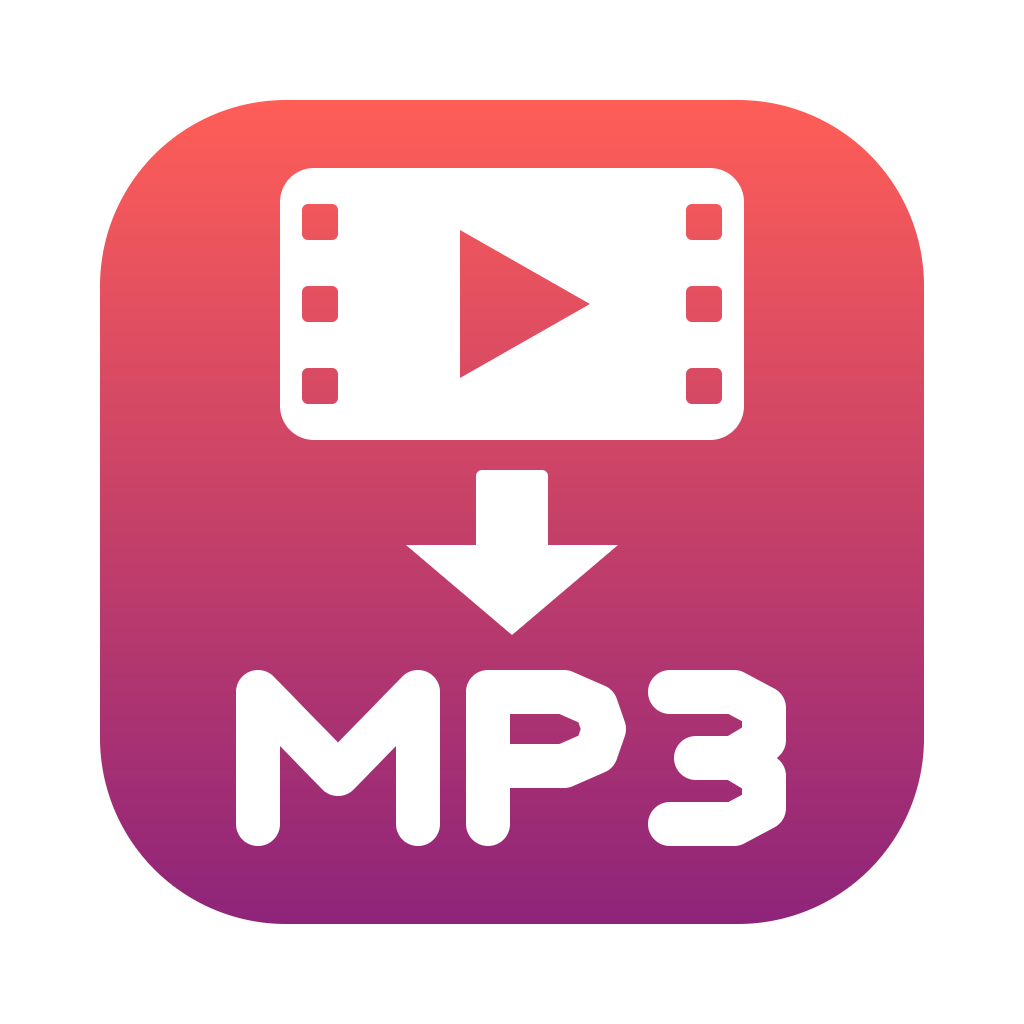
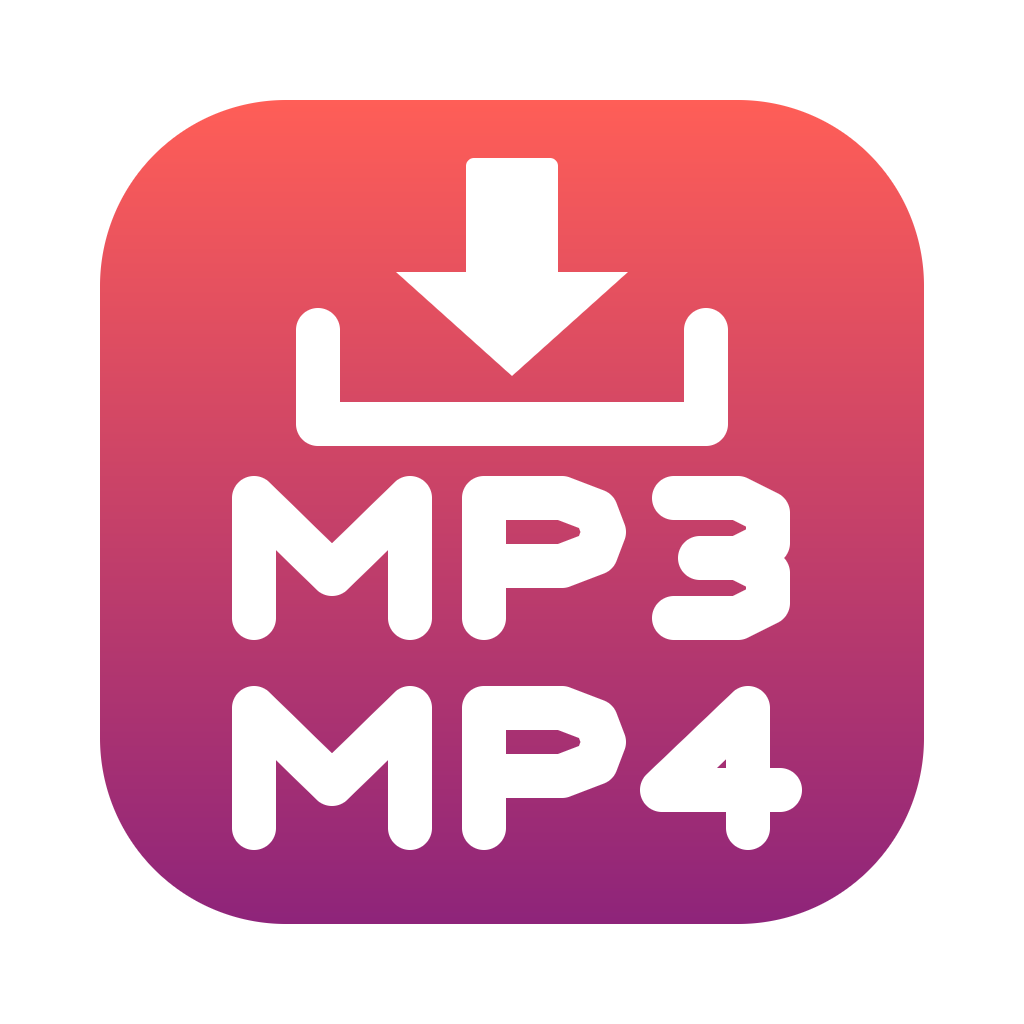
프로그램 이름을 "유투브내려받기"로 변경하고 아이콘 교체 (1.0.5)
- 창 제목, .app, 설치 파일, 바로 가기 이름 변경
- 아이콘을 내려받기 화살표와 MP3/MP4 구성으로 변경
- Windows는 기존 설치 폴더를 유지하고 이전 이름의 바로 가기를 삭제

Changed region(s): [[0.2188, 0.1562, 0.7812, 0.625], [0.2188, 0.6562, 0.7812, 0.8438]]

diff --git a/scripts/make_icon.py b/scripts/make_icon.py
@@ -39,44 +39,40 @@ def stroke(x, y, points, radius=22):
     return distance - radius
 
 
-def video(x, y):
-    """재생 삼각형과 필름 구멍이 있는 영상 화면."""
-    screen = rounded_box(x, y, 512, 304, 232, 136, 34)
-    holes = min(
-        rounded_box(x, y, cx, cy, 18, 18, 6)
-        for cx in (320, 704)
-        for cy in (222, 304, 386)
-    )
-    play = polygon(x, y, [(460, 230), (590, 304), (460, 378)])
-    # 화면에서 구멍과 삼각형 부분을 파내기
-    return max(screen, -holes, -play)
+def download_mark(x, y):
+    """받침대로 내려오는 화살표. 내려받기를 뜻함."""
+    shaft = rounded_box(x, y, 512, 220, 46, 62, 8)
+    head = polygon(x, y, [(396, 272), (628, 272), (512, 376)])
+    tray = stroke(x, y, [(318, 330), (318, 424), (706, 424), (706, 330)])
+    return min(shaft, head, tray)
 
 
-def arrow(x, y):
-    """영상에서 소리를 꺼낸다는 뜻의 아래 화살표."""
-    shaft = rounded_box(x, y, 512, 515, 36, 45, 6)
-    head = polygon(x, y, [(406, 545), (618, 545), (512, 635)])
-    return min(shaft, head)
+def letters_mp(x, y, top):
+    """"MP" 글자. top은 글자의 위쪽 위치, 글자 높이는 120."""
+    bottom = top + 120
+    m = [(254, bottom), (254, top), (332, top + 76), (410, top), (410, bottom)]
+    p = [(484, bottom), (484, top), (562, top), (596, top + 13), (604, top + 34),
+         (596, top + 55), (562, top + 68), (484, top + 68)]
+    return min(stroke(x, y, m), stroke(x, y, p))
 
 
-def label(x, y):
-    """"MP3" 글자."""
-    top, middle, bottom = 692, 758, 824
-    letters = [
-        # M
-        [(258, bottom), (258, top), (338, 774), (418, top), (418, bottom)],
-        # P
-        [(488, bottom), (488, top), (564, top), (596, 706), (604, 729),
-         (596, 752), (564, 766), (488, 766)],
-        # 3
-        [(670, top), (734, top), (764, 708), (764, 740), (734, middle), (696, middle)],
-        [(734, middle), (764, 776), (764, 808), (734, bottom), (670, bottom)],
-    ]
-    return min(stroke(x, y, points) for points in letters)
+def label_mp3(x, y, top=498):
+    middle, bottom = top + 60, top + 120
+    upper = [(674, top), (738, top), (768, top + 15), (768, top + 45),
+             (738, middle), (700, middle)]
+    lower = [(738, middle), (768, top + 75), (768, top + 105),
+             (738, bottom), (674, bottom)]
+    return min(letters_mp(x, y, top), stroke(x, y, upper), stroke(x, y, lower))
+
+
+def label_mp4(x, y, top=708):
+    slant = [(748, top), (662, top + 82), (780, top + 82)]
+    upright = [(748, top), (748, top + 120)]
+    return min(letters_mp(x, y, top), stroke(x, y, slant), stroke(x, y, upright))
 
 
 def symbol(x, y):
-    return min(video(x, y), arrow(x, y), label(x, y))
+    return min(download_mark(x, y), label_mp3(x, y), label_mp4(x, y))
 
 
 def coverage(distance):

diff --git a/src/main.rs b/src/main.rs
@@ -27,7 +27,7 @@ fn main() -> eframe::Result {
     };
 
     eframe::run_native(
-        "YouTube → MP3",
+        "유투브내려받기",
         options,
         Box::new(|cc| Ok(Box::new(App::new(cc.storage)))),
     )
